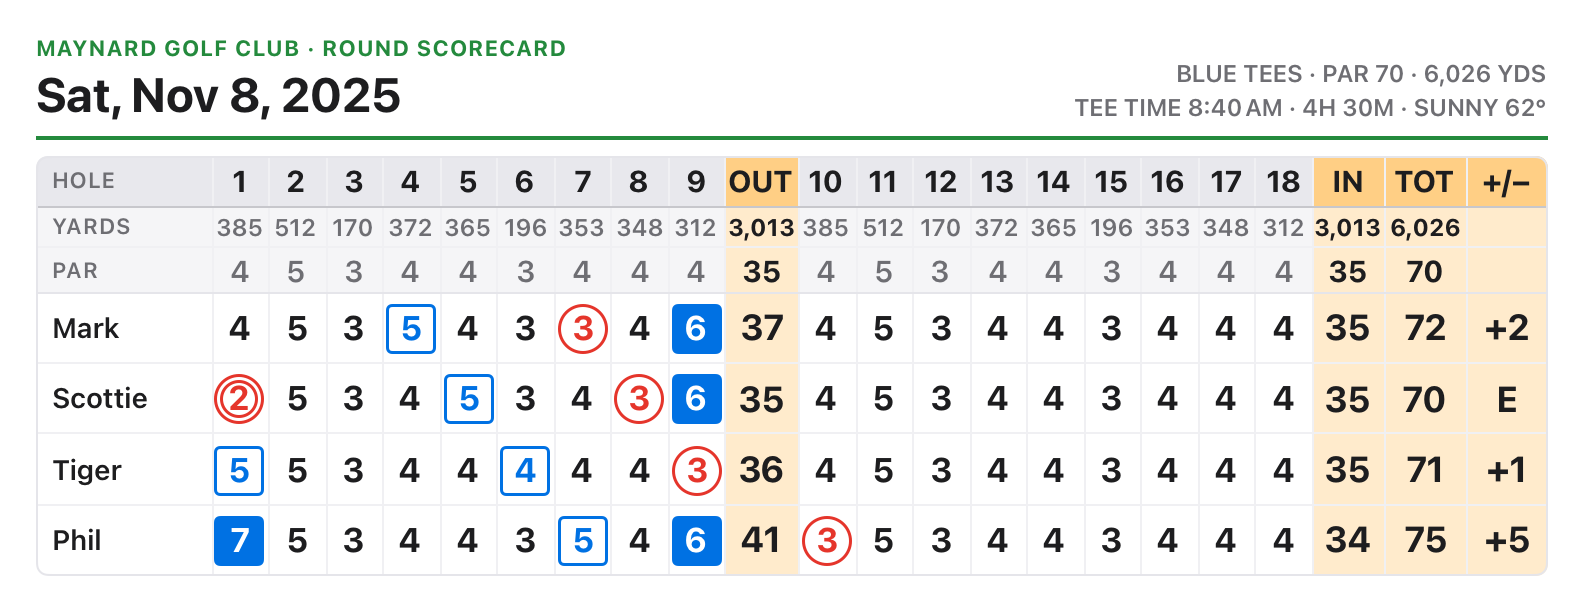
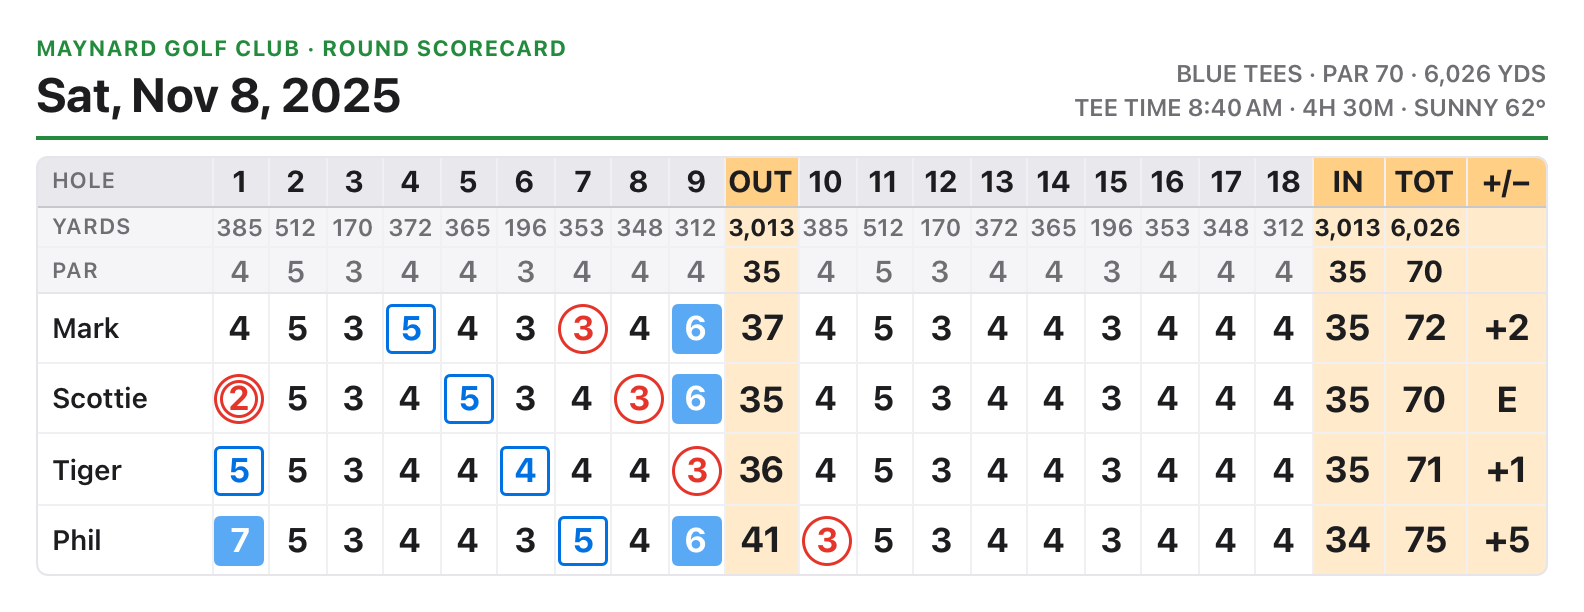
fix: Double+ score squares in the lighter Blue 400 (#283)
`scoreDoubleFill` was Blue 500, the same blue as the bogey outline, so the
filled squares read heavy on the scorecard. It is now Blue 400 (#5AA9F5) in
both appearances. The round PDF draws the same token, so its reference images
are updated.

Claude-Session: https://claude.ai/code/session_01MJsZV7mrbwzyQbSuM9cWXA

Changed region(s): [[0.4021, 0.4967, 0.464, 0.7141], [0.4021, 0.8382, 0.464, 0.9314], [0.1237, 0.8382, 0.1856, 0.9314]]

diff --git a/MaynardUITests/ColorTokenTests.swift b/MaynardUITests/ColorTokenTests.swift
@@ -47,7 +47,7 @@ struct ColorTokenTests {
         (.tableHeaderBorder, "#C7C7CC", "#48484A"), (.currentHoleHighlight, "#E1EFFE", "#0B2A4A"), (.countingHighlight, "#F0F7FF", "#0B2038"),
         (.hazardFill, "#E5352B", "#E5352B"), (.success, "#248A3D", "#34C759"), (.toggleOn, "#34C759", "#34C759"),
         (.toggleOff, "#E5E5EA", "#3A3A3C"), (.segmentTrack, "#EEEEF1", "#2C2C2E"), (.segmentSelected, "#FFFFFF", "#636366"),
-        (.scoreUnder, "#E5352B", "#FF6961"), (.scoreBogeyOutline, "#0071E3", "#5AA9F5"), (.scoreDoubleFill, "#0071E3", "#0071E3"),
+        (.scoreUnder, "#E5352B", "#FF6961"), (.scoreBogeyOutline, "#0071E3", "#5AA9F5"), (.scoreDoubleFill, "#5AA9F5", "#5AA9F5"),
         (.scoreEmpty, "#C7C7CC", "#636366"), (.avatarPlaceholder, "#E8E8ED", "#2C2C2E"), (.photoDimming, "#FFFFFF", "#B8B8B8"),
         (.onGlassFill, "#FFFFFF", "#FFFFFF"), (.chipFill, "#F5F5F7", "#000000"), (.chipHighlight, "#E1EFFE", "#0B2A4A"),
         (.scrimStroke, "#FFFFFF", "#FFFFFF"), (.glassTint, "#1D1D1F", "#000000"), (.glassTintStrong, "#1D1D1F", "#000000"),

diff --git a/MaynardUITests/GolfDisplayOverlayTests.swift b/MaynardUITests/GolfDisplayOverlayTests.swift
@@ -116,7 +116,9 @@ struct ScoreFormatterTests {
         func hex(_ color: DSPaletteColor) -> String { Contrast.hex(color.uiColor(in: light)) }
         #expect(hex(ScoreFormatter.MarkStyle.circle.stroke, dark) == hex(.red400))
         #expect(hex(ScoreFormatter.MarkStyle.square.stroke, dark) == hex(.blue400))
-        #expect(hex(ScoreFormatter.MarkStyle.filledSquare.fill, dark) == hex(.blue500))
+        // Double+ is the lighter Blue 400 in both appearances (#283).
+        #expect(hex(ScoreFormatter.MarkStyle.filledSquare.fill, dark) == hex(.blue400))
+        #expect(hex(ScoreFormatter.MarkStyle.filledSquare.fill, light) == hex(.blue400))
         #expect(hex(ScoreFormatter.MarkStyle.circle.stroke, light) == hex(.red500))
         #expect(hex(ScoreFormatter.MarkStyle.square.stroke, light) == hex(.blue500))
         #expect(hex(ScoreFormatter.MarkStyle.doubleCircle.fill, dark) == hex(.surfaceCard, dark))
